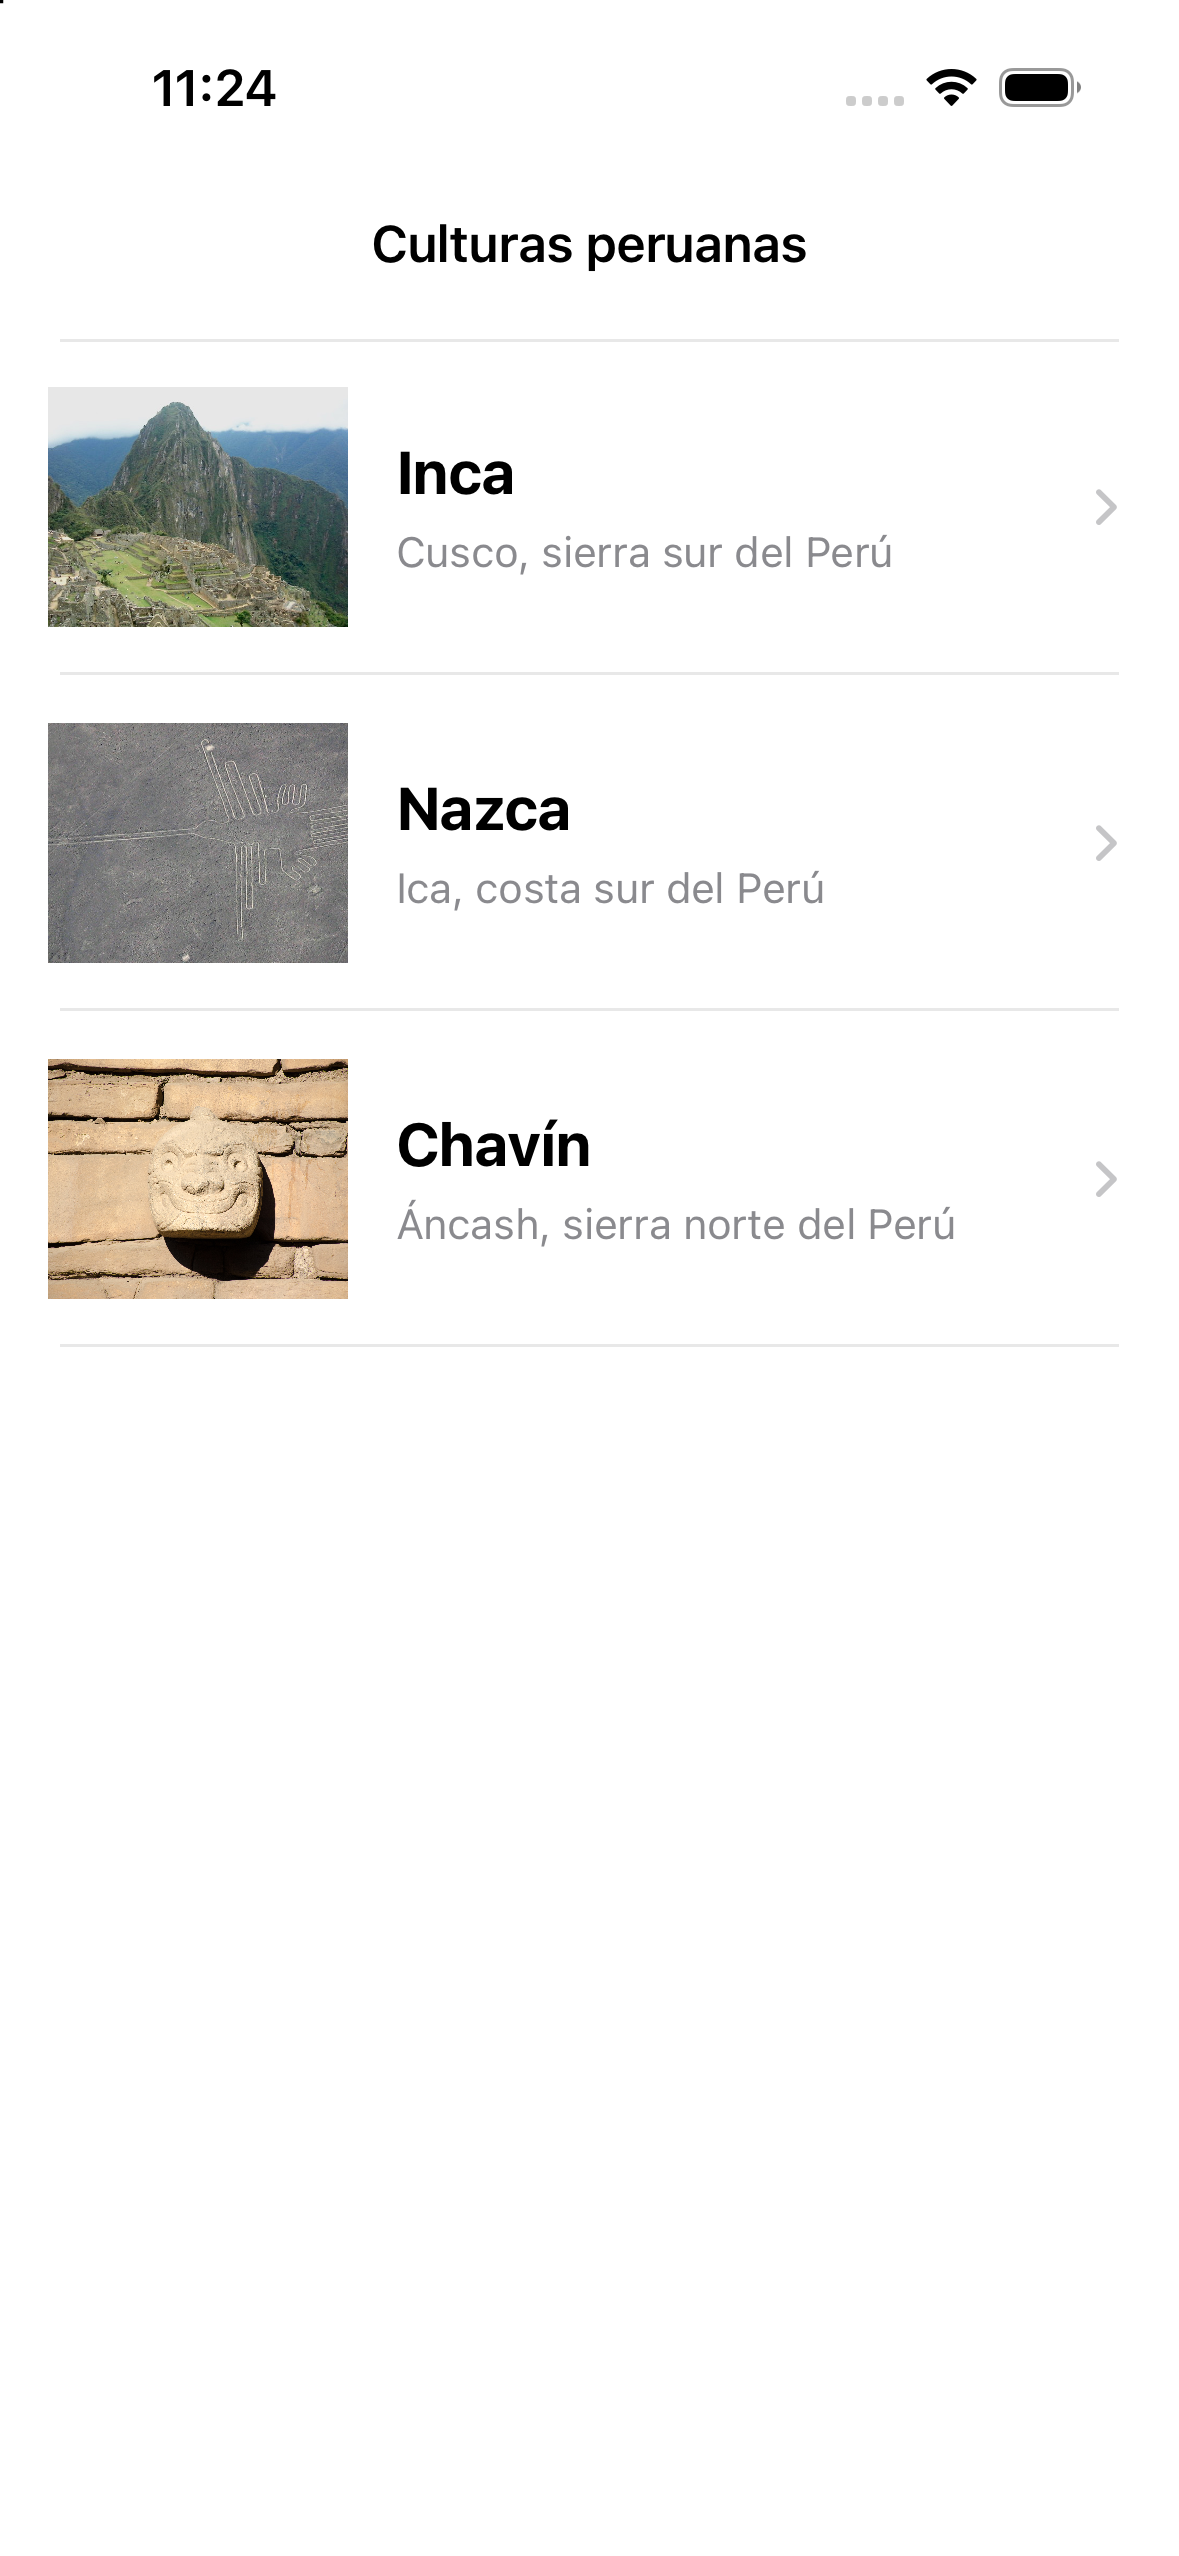
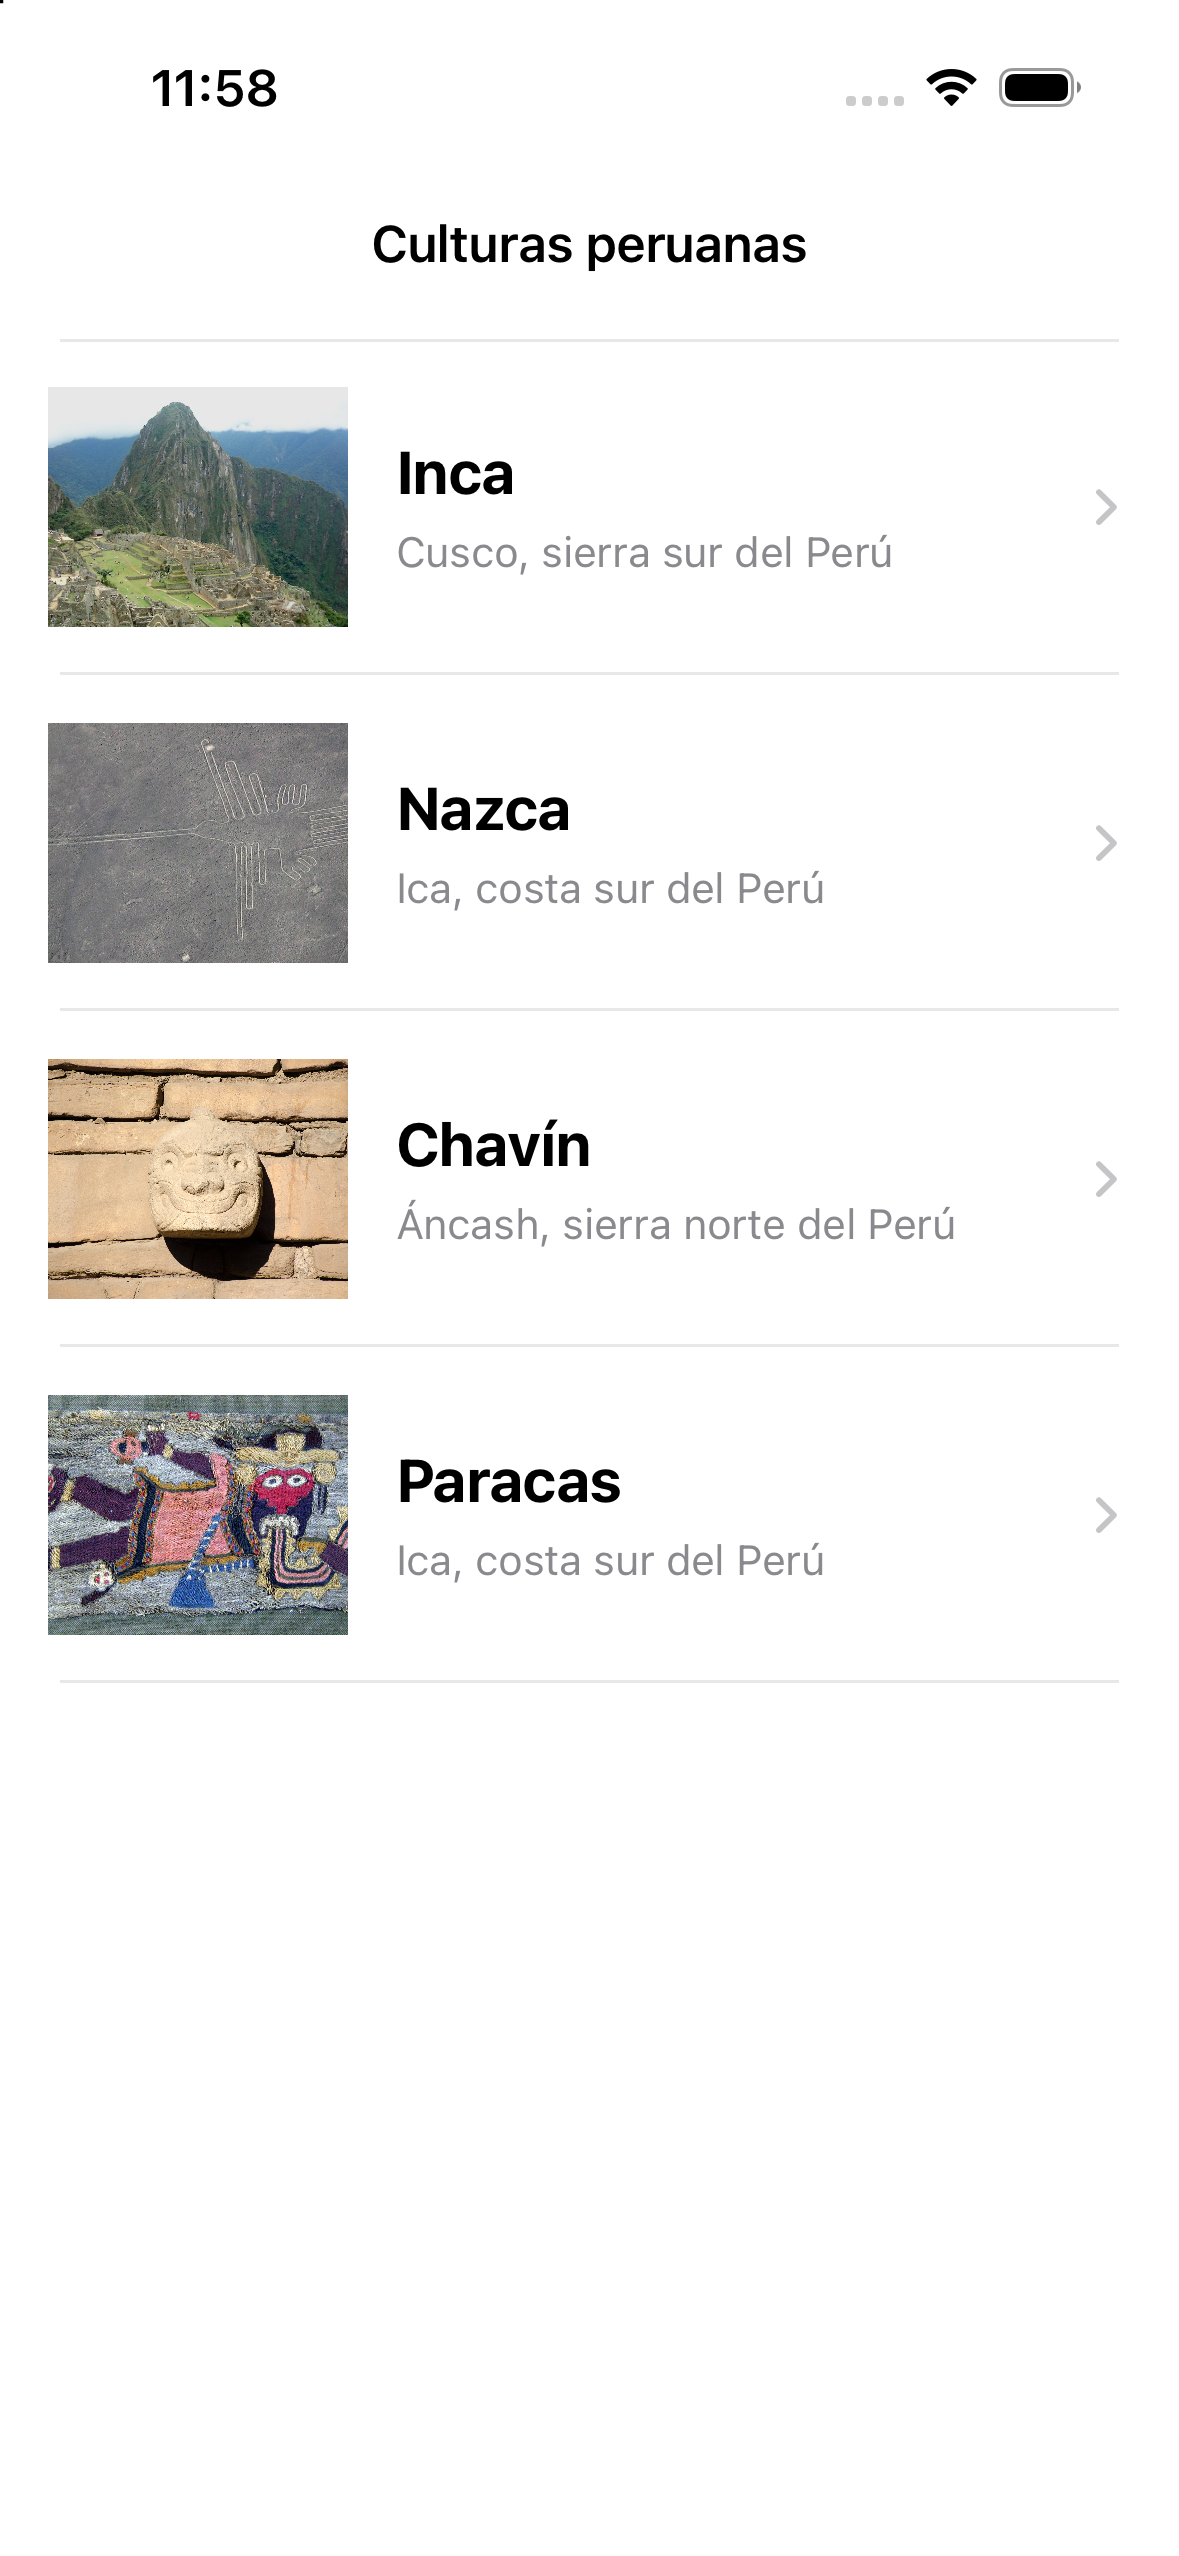
feat(semana-07): agregar cultura Paracas y evidencia del detalle

diff --git a/SEMANA_07/Semana07_03_CulturasPeruanas/Semana07_03_CulturasPeruanas/Cultura.swift b/SEMANA_07/Semana07_03_CulturasPeruanas/Semana07_03_CulturasPeruanas/Cultura.swift
@@ -24,6 +24,12 @@ struct Cultura {
             region: "Áncash, sierra norte del Perú",
             descripcion: "Chavín de Huántar fue un importante centro ceremonial de los Andes. Su arquitectura y sus esculturas de piedra reflejan una tradición religiosa de gran influencia. Las cabezas clavas son una de sus expresiones más representativas.",
             imagen: "chavin"
+        ),
+        Cultura(
+            nombre: "Paracas",
+            region: "Ica, costa sur del Perú",
+            descripcion: "La cultura Paracas destacó por la calidad de sus textiles, elaborados con algodón y fibras de camélidos. Sus tejidos presentan figuras y colores que expresan su tradición artística. La península de Paracas, en Ica, conserva importantes testimonios de esta cultura.",
+            imagen: "paracas"
         )
     ]
 }

diff --git a/SEMANA_07/FUENTES.md b/SEMANA_07/FUENTES.md
@@ -5,6 +5,7 @@ Las descripciones se redactaron de forma breve para el caso educativo, tomando c
 - [Santuario histórico de Machu Picchu](https://whc.unesco.org/en/list/274/).
 - [Líneas y geoglifos de Nasca y Palpa](https://whc.unesco.org/en/list/700/).
 - [Sitio arqueológico de Chavín](https://whc.unesco.org/en/list/330/).
+- [Sala Paracas del Museo Nacional de Arqueología, Antropología e Historia del Perú](https://mnaahp.cultura.pe/exposiciones/salas-permanentes/paracas).
 
 ## Fotografías incluidas en Assets
 
@@ -13,5 +14,6 @@ Las descripciones se redactaron de forma breve para el caso educativo, tomando c
 | inca.jpg | Chmouel | [Machu-Picchu.jpg](https://commons.wikimedia.org/wiki/File:Machu-Picchu.jpg) | [CC BY-SA 3.0](https://creativecommons.org/licenses/by-sa/3.0/) |
 | nazca.jpg | BjarteSorensen | [Nazca colibri.jpg](https://commons.wikimedia.org/wiki/File:Nazca_colibri.jpg) | [CC BY-SA 3.0](https://creativecommons.org/licenses/by-sa/3.0/) |
 | chavin.jpg | kcorac | [Chavín Cabeza Clava From Front.jpg](https://commons.wikimedia.org/wiki/File:Chav%C3%ADn_Cabeza_Clava_From_Front.jpg) | [CC BY-SA 4.0](https://creativecommons.org/licenses/by-sa/4.0/) |
+| paracas.jpg | The Metropolitan Museum of Art | [Embroidered Fragment with Figures MET 33.43d.jpg](https://commons.wikimedia.org/wiki/File:Embroidered_Fragment_with_Figures_MET_33.43d.jpg) | [CC0 1.0](https://creativecommons.org/publicdomain/zero/1.0/) |
 
 Se conservan los archivos originales sin modificación. La app adapta su presentación al espacio de cada vista mediante UIKit. Cada fotografía conserva la licencia indicada; estas atribuciones forman parte del repositorio.

diff --git a/SEMANA_07/README_PROMPT.md b/SEMANA_07/README_PROMPT.md
@@ -23,7 +23,7 @@ Crea el proyecto Semana07_03_CulturasPeruanas dentro de SEMANA_07 de mi portafol
 7. Usar una celda reutilizable y constraints superior, inferior, izquierdo y derecho de la tabla a 0 respecto de la Safe Area.
 8. Guardar las imágenes en Assets para que la app funcione sin internet.
 
-Usa como ejemplos Inca, Nazca y Chavín. Obtén imágenes representativas con licencia reutilizable y documenta su autor, fuente y licencia.
+Usa como ejemplos Inca, Nazca, Chavín y Paracas. Obtén imágenes representativas con licencia reutilizable y documenta su autor, fuente y licencia.
 
 ## Formato esperado
 
@@ -32,7 +32,7 @@ Entrega el proyecto editable en Xcode con el modelo, los controladores, la clase
 ## Criterios de revisión
 
 - Compila y se ejecuta en iPhone 16.
-- Las tres culturas muestran su propia imagen.
+- Las cuatro culturas muestran su propia imagen.
 - El detalle corresponde a la fila seleccionada.
 - El botón de volver permite regresar y elegir otra cultura.
 - Ningún outlet queda desconectado.

diff --git a/SEMANA_07/README.md b/SEMANA_07/README.md
@@ -6,7 +6,7 @@ Caso a desarrollar de la guía GLAB-S07-JLEONS-2026-2, implementado en la rama `
 
 `Semana07_03_CulturasPeruanas/Semana07_03_CulturasPeruanas.xcodeproj`
 
-Aplicación UIKit con Storyboard, UITableView y UINavigationController. Presenta las culturas Inca, Nazca y Chavín, con imágenes locales y una pantalla de detalle.
+Aplicación UIKit con Storyboard, UITableView y UINavigationController. Presenta las culturas Inca, Nazca, Chavín y Paracas, con imágenes locales y una pantalla de detalle.
 
 ## Funcionamiento
 
@@ -45,3 +45,4 @@ Las imágenes están incluidas en Assets. No se necesitan paquetes externos ni c
 ![Detalle Inca](evidencias/02_detalle_inca_iphone16.png)
 ![Detalle Nazca](evidencias/03_detalle_nazca_iphone16.png)
 ![Detalle Chavín](evidencias/04_detalle_chavin_iphone16.png)
+![Detalle Paracas](evidencias/05_detalle_paracas_iphone16.png)
